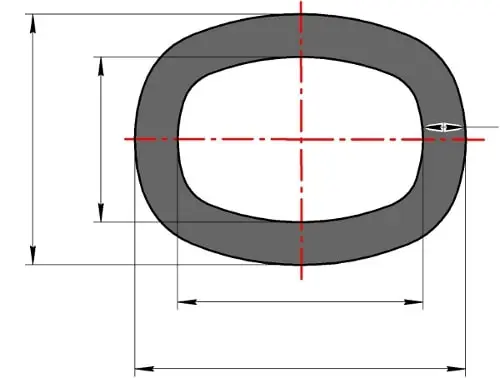
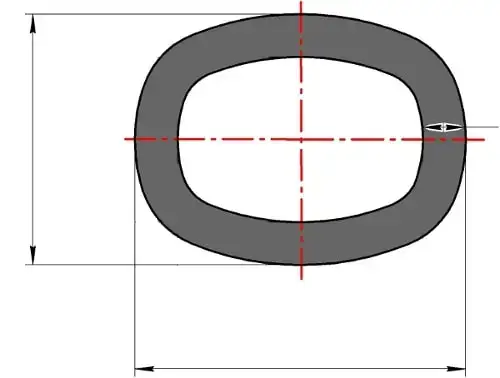
added new not rounding image

Changed region(s): [[0.18, 0.1455, 0.54, 0.6111], [0.33, 0.6402, 0.87, 0.8148], [0.84, 0.4365, 0.87, 0.6111]]

diff --git a/frontend/src/features/gaskets/modules/wave/components/Size/Drawing.tsx b/frontend/src/features/gaskets/modules/wave/components/Size/Drawing.tsx
@@ -1,10 +1,19 @@
 import { Skeleton, Typography } from '@mui/material'
 
 import { useAppSelector } from '@/hooks/redux'
-import { Column, ImageContainer } from '@/features/gaskets/components/Skeletons/gasket.style'
+import { Column, Image, ImageContainer } from '@/features/gaskets/components/Skeletons/gasket.style'
 import { getConfiguration, getConstruction, getType } from '../../waveSlice'
 import { StandardImage } from './Image/StandardImage'
 import { Dimensions } from './Dimensions/Dimensions'
+import { NotRoundDimensions } from './Dimensions/NotRoundDimensions'
+
+import ovalImage from '@/assets/putg/ov.webp'
+import rectangularImage from '@/assets/putg/pr.webp'
+
+const images = {
+	oval: ovalImage,
+	rectangular: rectangularImage,
+}
 
 export const Drawing = () => {
 	const configuration = useAppSelector(getConfiguration)
@@ -25,25 +34,25 @@ export const Drawing = () => {
 						</ImageContainer>
 					)}
 
-					{/* {configuration?.code != 'round' && (
-							<>
-								<ImageContainer padding='0'>
+					{configuration?.code != 'round' && (
+						<>
+							{/* <ImageContainer padding='0'>
 									<NotStandardImage type={type} construction={construction} />
-								</ImageContainer>
+								</ImageContainer> */}
 
-								<Typography fontWeight='bold'>Размеры прокладки</Typography>
-								<ImageContainer padding='0 20px'>
-									<Image
-										src={images[configuration?.code || 'rectangular']}
-										alt='gasket drawing'
-										maxWidth={'400px'}
-										width={600}
-										height={255}
-									/>
-									<AnotherSizeBlock />
-								</ImageContainer>
-							</>
-						)} */}
+							<Typography fontWeight='bold'>Размеры прокладки</Typography>
+							<ImageContainer padding='0 20px'>
+								<Image
+									src={images[configuration?.code || 'rectangular']}
+									alt='gasket drawing'
+									maxWidth={'400px'}
+									width={600}
+									height={255}
+								/>
+								<NotRoundDimensions />
+							</ImageContainer>
+						</>
+					)}
 				</>
 			)}
 		</Column>

diff --git a/frontend/src/features/gaskets/modules/putg/components/Size/Drawing.tsx b/frontend/src/features/gaskets/modules/putg/components/Size/Drawing.tsx
@@ -6,19 +6,24 @@ import { SizesBlock } from './SizeBlock/SizesBlock'
 import { AnotherSizeBlock } from './SizeBlock/AnotherSizeBlock'
 import { StandardImage } from './Image/StandardImage'
 import { NotStandardImage } from './Image/NotStandardImage'
-import { getConfiguration, getConstruction, getType } from '../../putgSlice'
+import { getConfiguration, getConstruction, getType, getUseDimensions } from '../../putgSlice'
 
 import ovalImage from '@/assets/putg/ov.webp'
+import ovalDimImage from '@/assets/putg/ov-dimensions.webp'
 import rectangularImage from '@/assets/putg/pr.webp'
+import rectangularDimImage from '@/assets/putg/pr-dimensions.webp'
 
 const images = {
-	oval: ovalImage,
-	rectangular: rectangularImage,
+	'oval-false': ovalImage,
+	'oval-true': ovalDimImage,
+	'rectangular-false': rectangularImage,
+	'rectangular-true': rectangularDimImage,
 }
 
 export const Drawing = () => {
 	const configuration = useAppSelector(getConfiguration)
 	const construction = useAppSelector(getConstruction)
+	const useDimensions = useAppSelector(getUseDimensions)
 	const type = useAppSelector(getType)
 
 	return (
@@ -44,7 +49,7 @@ export const Drawing = () => {
 							<Typography fontWeight='bold'>Размеры прокладки</Typography>
 							<ImageContainer padding='0 20px'>
 								<Image
-									src={images[configuration?.code || 'rectangular']}
+									src={images[`${configuration?.code || 'rectangular'}-${useDimensions || false}`]}
 									alt='gasket drawing'
 									maxWidth={'400px'}
 									width={600}

diff --git a/frontend/src/features/gaskets/modules/wave/components/Size/Dimensions/NotRoundDimensions.tsx b/frontend/src/features/gaskets/modules/wave/components/Size/Dimensions/NotRoundDimensions.tsx
@@ -1,0 +1,39 @@
+import { useAppSelector } from '@/hooks/redux'
+import { Container, Description, Size } from '@/components/Size/size.style'
+import { getSize } from '../../../waveSlice'
+
+export const NotRoundDimensions = () => {
+	const sizes = useAppSelector(getSize)
+
+	// if (sizes.useDimensions)
+	// 	return (
+	// 		<Container>
+	// 			<Size top={'87%'} left='55%'>
+	// 				{sizes.d4?.replace('.', ',')} <Description>(A1)</Description>
+	// 			</Size>
+	// 			<Size top={'71%'} left='55%'>
+	// 				{sizes.d3?.replace('.', ',')} <Description>(A2)</Description>
+	// 			</Size>
+	// 			<Size top={'23%'} left='5%' hasRotate>
+	// 				{sizes.d2?.replace('.', ',')} <Description>(B1)</Description>
+	// 			</Size>
+	// 			<Size top={'24%'} left='17%' hasRotate>
+	// 				{sizes.d1?.replace('.', ',')} <Description>(B2)</Description>
+	// 			</Size>
+	// 		</Container>
+	// 	)
+
+	return (
+		<Container>
+			<Size top={'87%'} left='55%'>
+				{sizes.d3?.replace('.', ',')} <Description>(A1)</Description>
+			</Size>
+			<Size top={'23%'} left='5%' hasRotate>
+				{sizes.d2?.replace('.', ',')} <Description>(B1)</Description>
+			</Size>
+			<Size top={'12%'} left='90%'>
+				{sizes.d1?.replace('.', ',')} <Description>(C)</Description>
+			</Size>
+		</Container>
+	)
+}

diff --git a/frontend/src/features/gaskets/modules/serrated/components/Size/Thickness/Thickness.tsx b/frontend/src/features/gaskets/modules/serrated/components/Size/Thickness/Thickness.tsx
@@ -12,9 +12,14 @@ export const Thickness = () => {
 	const dispatch = useAppDispatch()
 
 	useEffect(() => {
-		if (thicknesses && thicknesses.length > 0) dispatch(setThickness(thicknesses[0]))
-		else dispatch(setThickness(defaultThicknesses[0]))
-	}, [dispatch, thicknesses])
+		if (thicknesses && thicknesses.length > 0) {
+			const newH = thicknesses.find(v => v == h)
+			dispatch(setThickness(newH ? newH : thicknesses[0]))
+		} else {
+			const newH = defaultThicknesses.find(v => v == h)
+			dispatch(setThickness(newH ? newH : defaultThicknesses[0]))
+		}
+	}, [dispatch, thicknesses, h])
 
 	// const thicknessHandler = (event: React.ChangeEvent<HTMLInputElement>) => {
 	// 	const regex = /(^\d+[.,]?(\d{1})?)$/

diff --git a/frontend/src/features/gaskets/modules/wave/components/Size/Thickness/Thickness.tsx b/frontend/src/features/gaskets/modules/wave/components/Size/Thickness/Thickness.tsx
@@ -12,9 +12,14 @@ export const Thickness = () => {
 	const dispatch = useAppDispatch()
 
 	useEffect(() => {
-		if (thicknesses && thicknesses.length > 0) dispatch(setThickness(thicknesses[0]))
-		else dispatch(setThickness(defaultThicknesses[0]))
-	}, [dispatch, thicknesses])
+		if (thicknesses && thicknesses.length > 0) {
+			const newH = thicknesses.find(v => v == h)
+			dispatch(setThickness(newH ? newH : thicknesses[0]))
+		} else {
+			const newH = defaultThicknesses.find(v => v == h)
+			dispatch(setThickness(newH ? newH : defaultThicknesses[0]))
+		}
+	}, [dispatch, thicknesses, h])
 
 	// const thicknessHandler = (event: React.ChangeEvent<HTMLInputElement>) => {
 	// 	const regex = /(^\d+[.,]?(\d{1})?)$/

diff --git a/frontend/src/features/gaskets/modules/putg/components/Size/SizeBlock/AnotherSizeBlock.tsx b/frontend/src/features/gaskets/modules/putg/components/Size/SizeBlock/AnotherSizeBlock.tsx
@@ -16,7 +16,7 @@ export const AnotherSizeBlock: FC<Props> = () => {
 					<Size top={'87%'} left='55%'>
 						{sizes.d4?.replace('.', ',')} <Description>(A1)</Description>
 					</Size>
-					<Size top={'69%'} left='55%'>
+					<Size top={'71%'} left='55%'>
 						{sizes.d3?.replace('.', ',')} <Description>(A2)</Description>
 					</Size>
 					<Size top={'23%'} left='5%' hasRotate>
